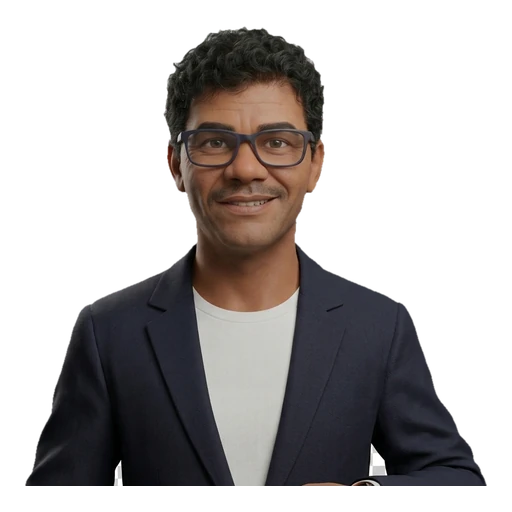
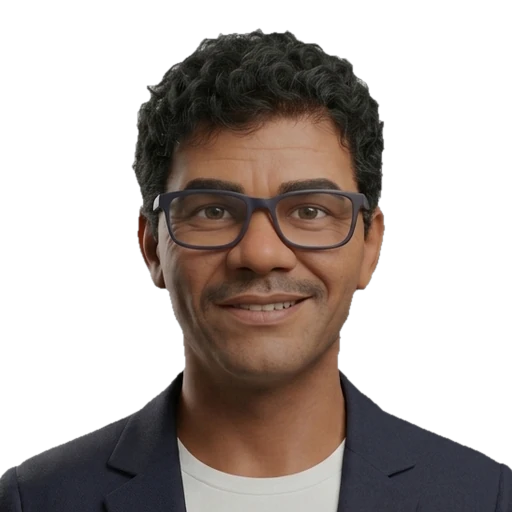
chore: standardize character portrait framing and size
Re-frame Carlos Pai and Darlene by head size (head 58% of the frame,
top at 6%, centred), matching the original cast; Darlene is now a bust
instead of waist-up and Carlos Pai keeps the same face size in both
expressions. Resize mamae/happy.webp from 1024px (134 KB) to the
standard 512px (46 KB). SW v3.13.1.

diff --git a/sw.js b/sw.js
@@ -7,7 +7,7 @@
  *
  * Para publicar arquivos novos ou alterados, aumente VERSION: o cache antigo é apagado.
  */
-const VERSION = 'v3.13.0';
+const VERSION = 'v3.13.1';
 const SHELL_CACHE = 'cpd-shell-' + VERSION;
 const AUDIO_CACHE = 'cpd-audio-v2';
 
